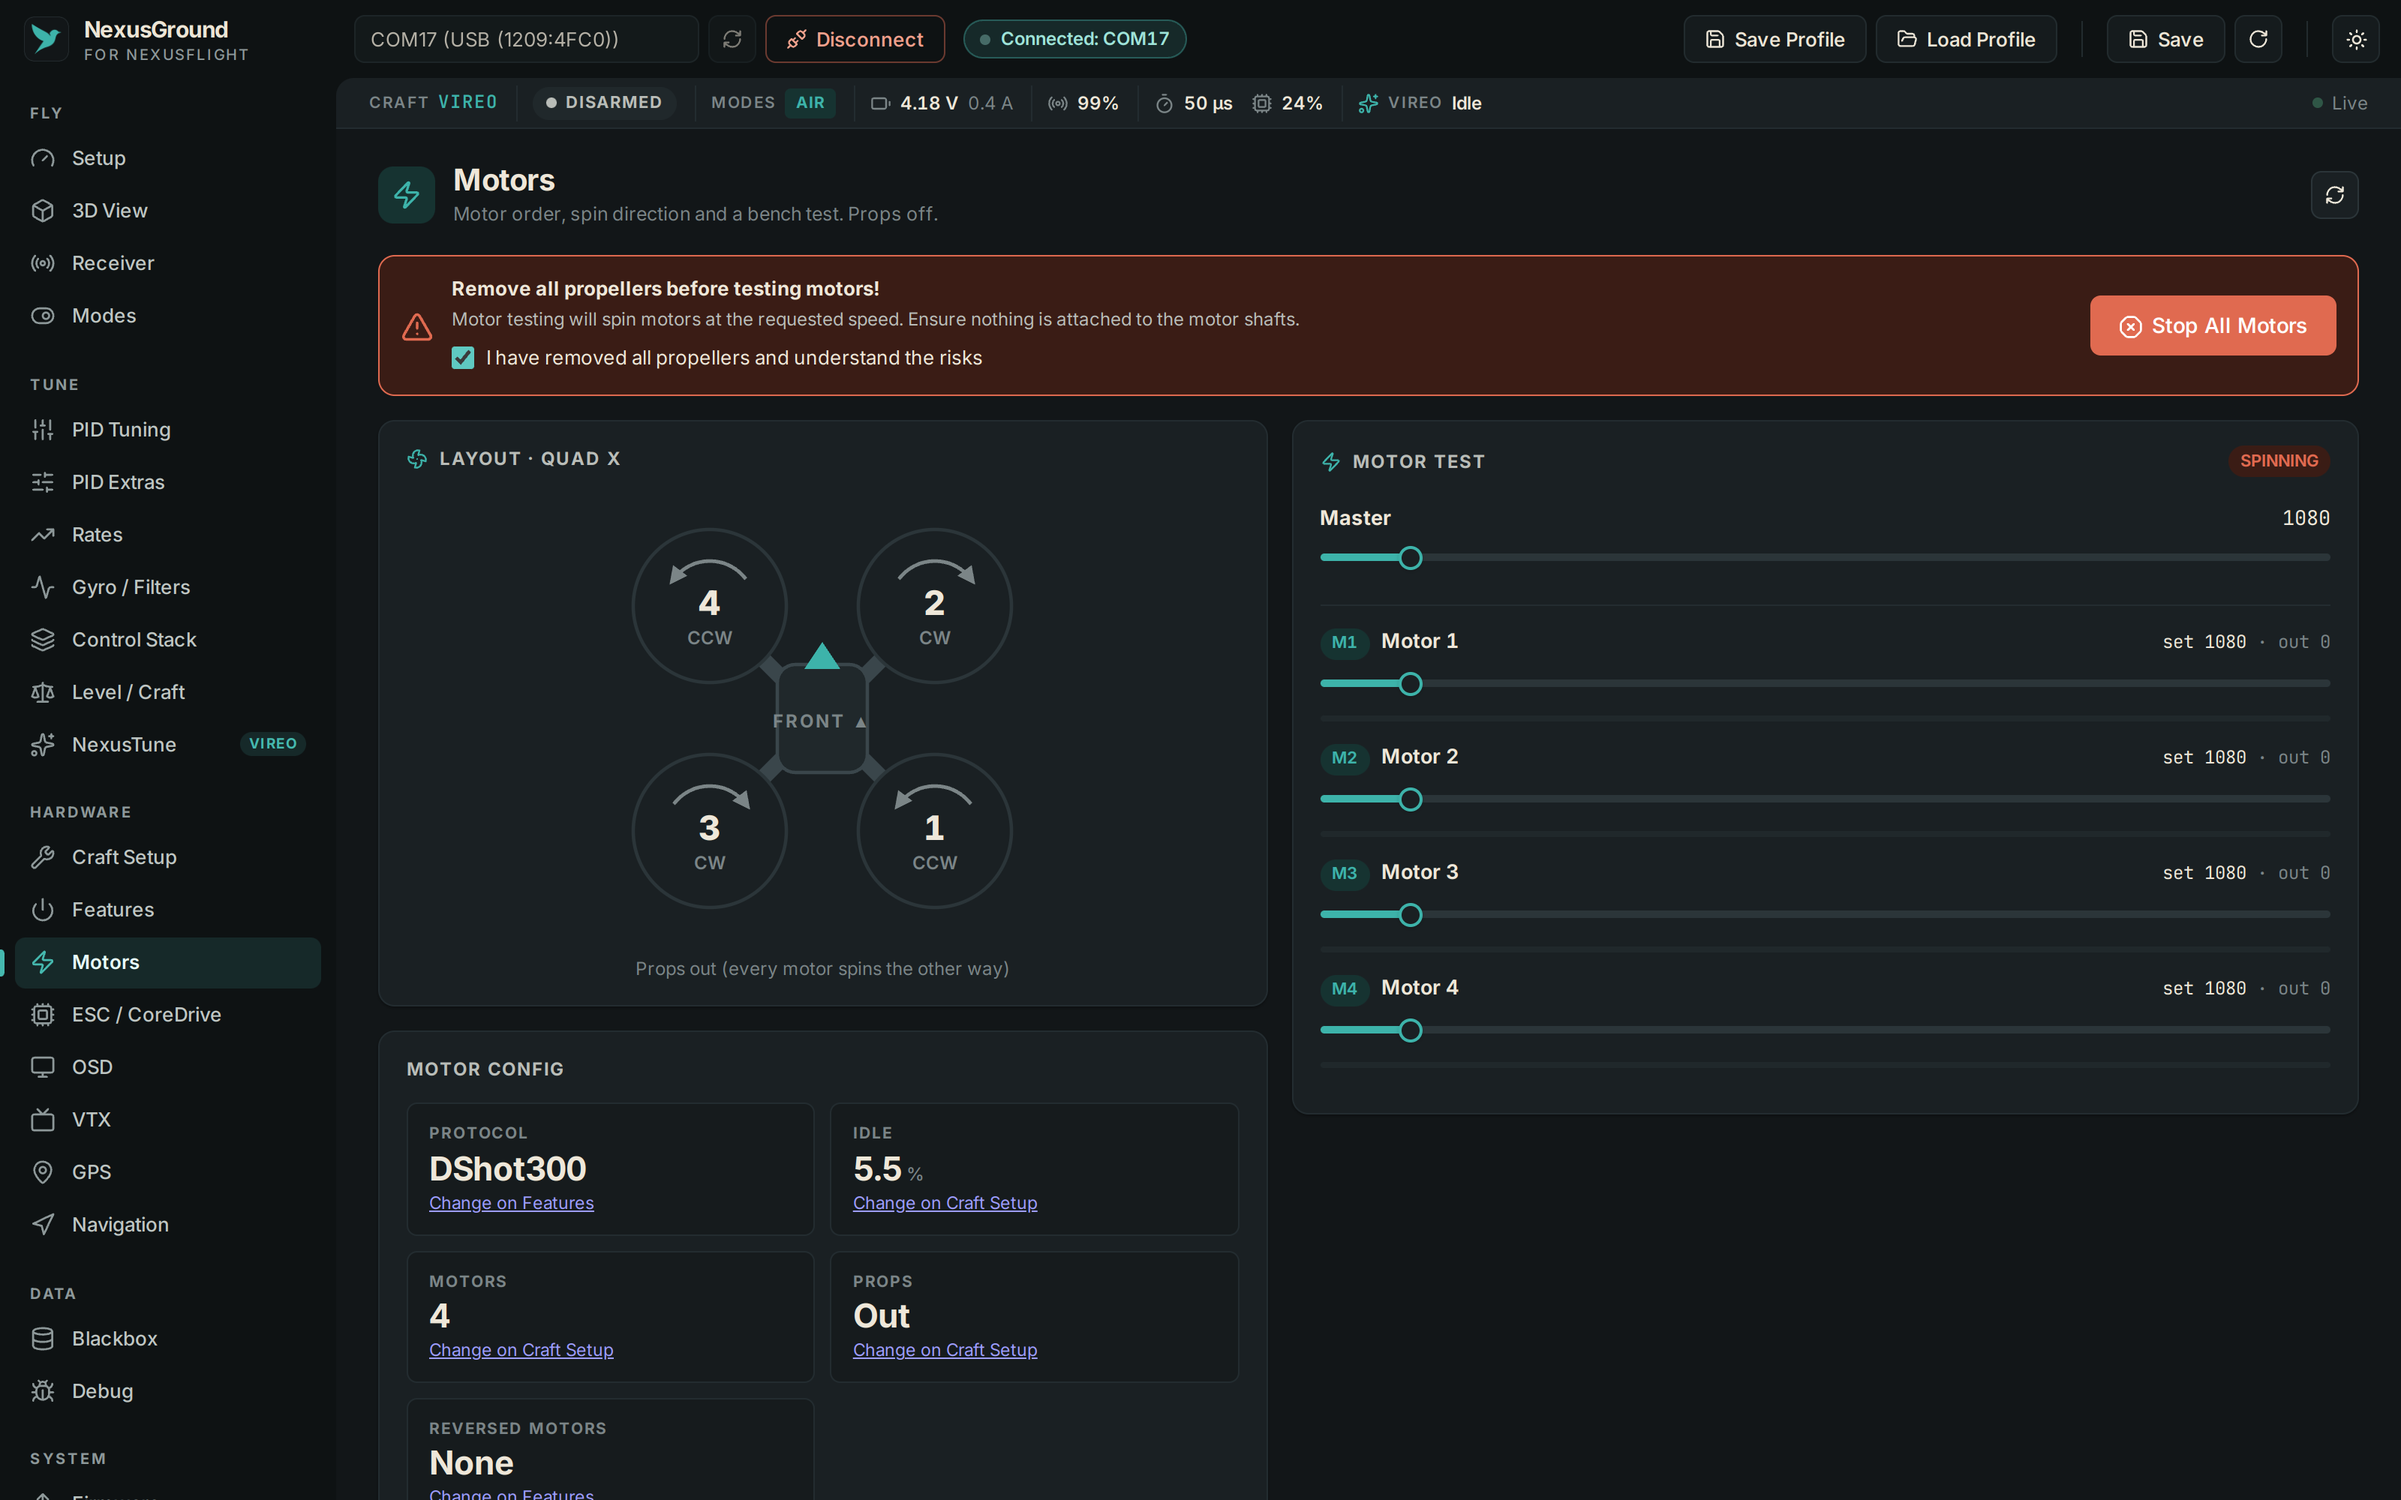
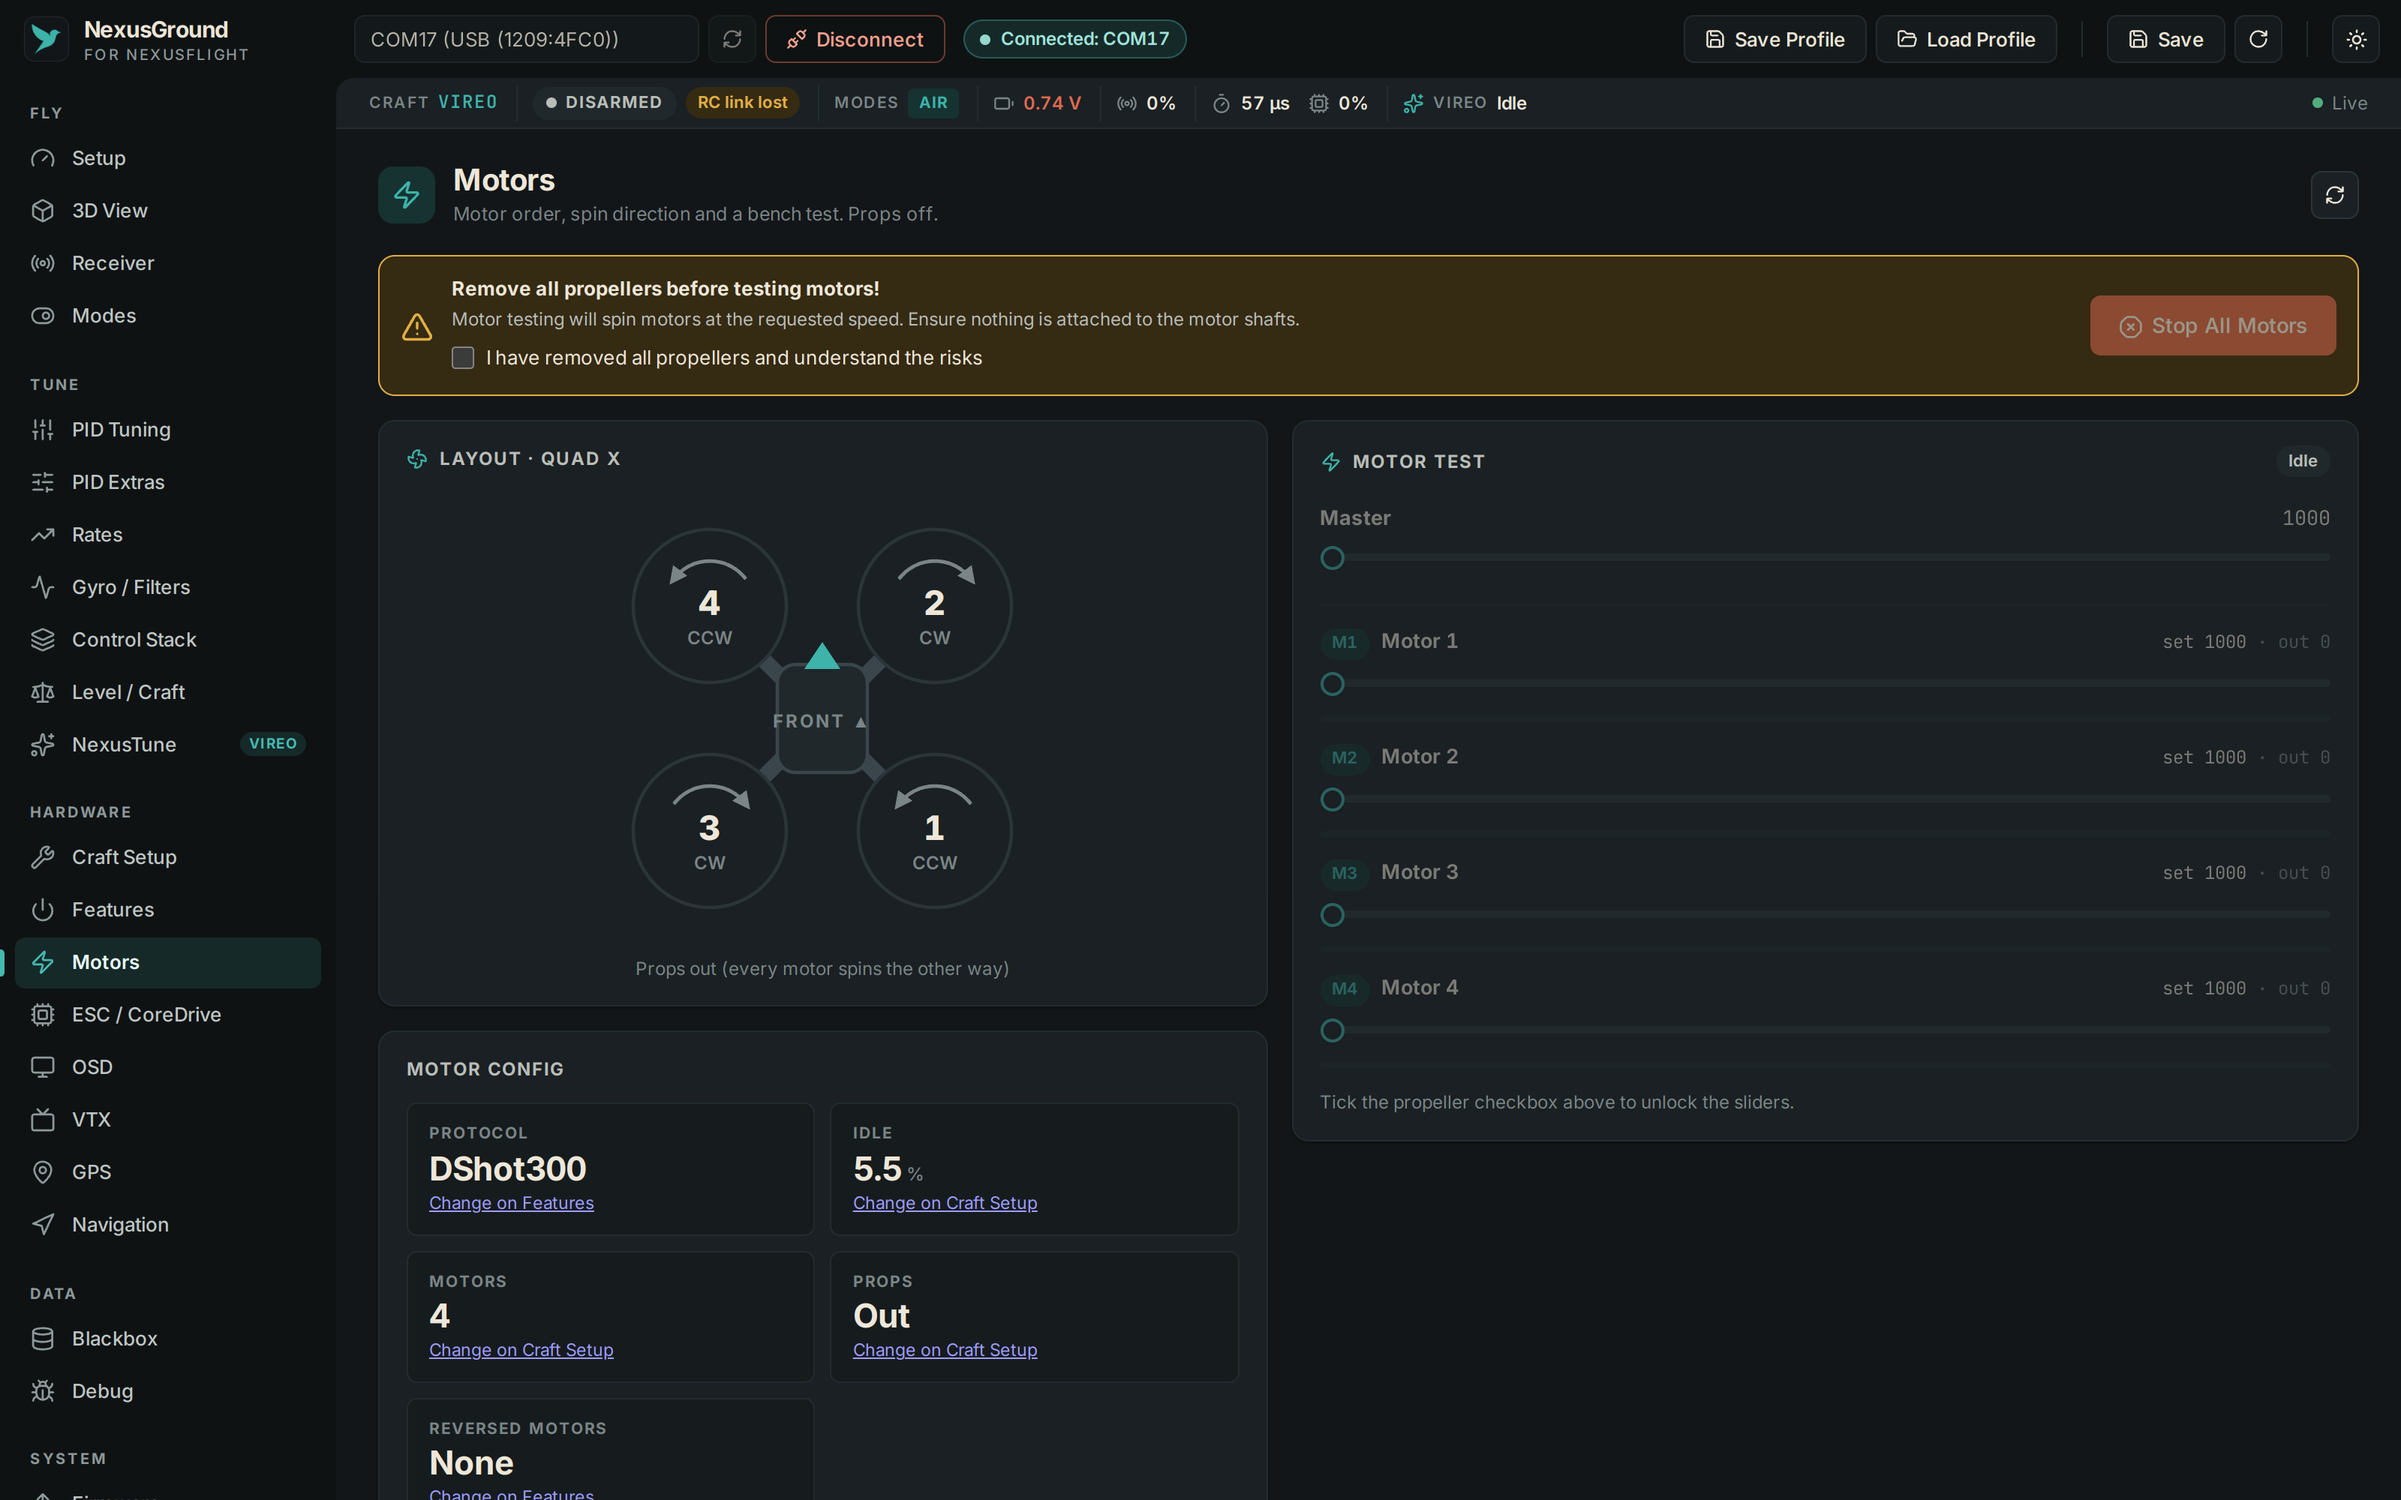
README: NexusGround screenshots from the live quad
The nine NexusGround screenshots are regenerated from the Air65 II read live
over USB: arming checks, battery and link as the FC reports them on USB power,
the OSD layout as stored on the FC, and the real USB device list in Link
Assist.

diff --git a/README.md b/README.md
@@ -489,10 +489,10 @@ Recommended for every first flash: **props off**, save the stock CLI `dump` and 
 ### NexusGround Configurator
 
 <p align="center">
-  <img src="assets/screenshots/nexusground-setup.png" alt="NexusGround Setup tab, light theme: the Air65 II (craft VIREO) connected on USB with the live 3D attitude view, Ready to arm, loop and CPU, craft name and board details" width="880" />
+  <img src="assets/screenshots/nexusground-setup.png" alt="NexusGround Setup tab, light theme: the Air65 II (craft VIREO) connected on USB with the live 3D attitude view, arming checks, loop and CPU, craft name and board details" width="880" />
 </p>
 <p align="center">
-  <img src="assets/screenshots/nexusground-nexustune-dark.png" alt="NexusGround NexusTune tab, dark theme: Vireo model loaded, its state and confidence, and the table of learned gains waiting to be saved next to the gains on the FC" width="49%" />
+  <img src="assets/screenshots/nexusground-nexustune-dark.png" alt="NexusGround NexusTune tab, dark theme: Vireo model loaded with its state and confidence, the learned-gains check, and the blackbox analyser with a flight log loaded" width="49%" />
   &nbsp;
   <img src="assets/screenshots/nexusground-blackbox.png" alt="NexusGround Blackbox tab, light theme: the log explorer plotting gyro, setpoint and motor traces from a NexusFlight flight log with Vireo's tuning record" width="49%" />
 </p>
@@ -500,7 +500,7 @@ Recommended for every first flash: **props off**, save the stock CLI `dump` and 
   <tr>
     <td width="33%"><img src="assets/screenshots/nexusground-pid.png" alt="NexusGround PID Tuning tab, light theme: roll, pitch and yaw P, I and D sliders with the gain balance panel" /></td>
     <td width="33%"><img src="assets/screenshots/nexusground-rates-dark.png" alt="NexusGround Rates tab, dark theme: Betaflight Actual rates curve, 90 deg/s centre, 810 deg/s max, expo 0.75" /></td>
-    <td width="33%"><img src="assets/screenshots/nexusground-motors-dark.png" alt="NexusGround Motors tab, dark theme: Quad X layout with props out and the safe motor test" /></td>
+    <td width="33%"><img src="assets/screenshots/nexusground-motors-dark.png" alt="NexusGround Motors tab, dark theme: Quad X layout with props out, motor config and the safe motor test" /></td>
   </tr>
   <tr>
     <td align="center"><sub>PID Tuning</sub></td>
@@ -509,8 +509,8 @@ Recommended for every first flash: **props off**, save the stock CLI `dump` and 
   </tr>
   <tr>
     <td><img src="assets/screenshots/nexusground-esc.png" alt="NexusGround ESC page, light theme: four CoreDrive-8051 ESCs read over the 4-way passthrough with their settings" /></td>
-    <td><img src="assets/screenshots/nexusground-osd-dark.png" alt="NexusGround OSD tab, dark theme: layout editor with the craft name and the NexusTune bird and TUNE indicator" /></td>
-    <td><img src="assets/screenshots/nexusground-link-assist.png" alt="NexusGround Link Assist page, light theme: USB devices, the driver each uses and a one-click fix" /></td>
+    <td><img src="assets/screenshots/nexusground-osd-dark.png" alt="NexusGround OSD tab, dark theme: layout editor with the craft's layout, including the NexusTune bird and TUNE indicator" /></td>
+    <td><img src="assets/screenshots/nexusground-link-assist.png" alt="NexusGround Link Assist page, light theme: the flight controller's USB serial device and its driver" /></td>
   </tr>
   <tr>
     <td align="center"><sub>ESC / CoreDrive</sub></td>
@@ -518,7 +518,7 @@ Recommended for every first flash: **props off**, save the stock CLI `dump` and 
     <td align="center"><sub>Link Assist</sub></td>
   </tr>
 </table>
-<p align="center"><sub>The redesigned NexusGround (development build) with an Air65 II's configuration, craft name VIREO. The Blackbox explorer is plotting a real NexusFlight flight log.</sub></p>
+<p align="center"><sub>The redesigned NexusGround (development build) connected live to an Air65 II (craft VIREO) on USB power only, so no battery, radio or ESCs. The Blackbox explorer is plotting a real NexusFlight flight log.</sub></p>
 
 **New in the redesign (development build, not yet released):**
 
